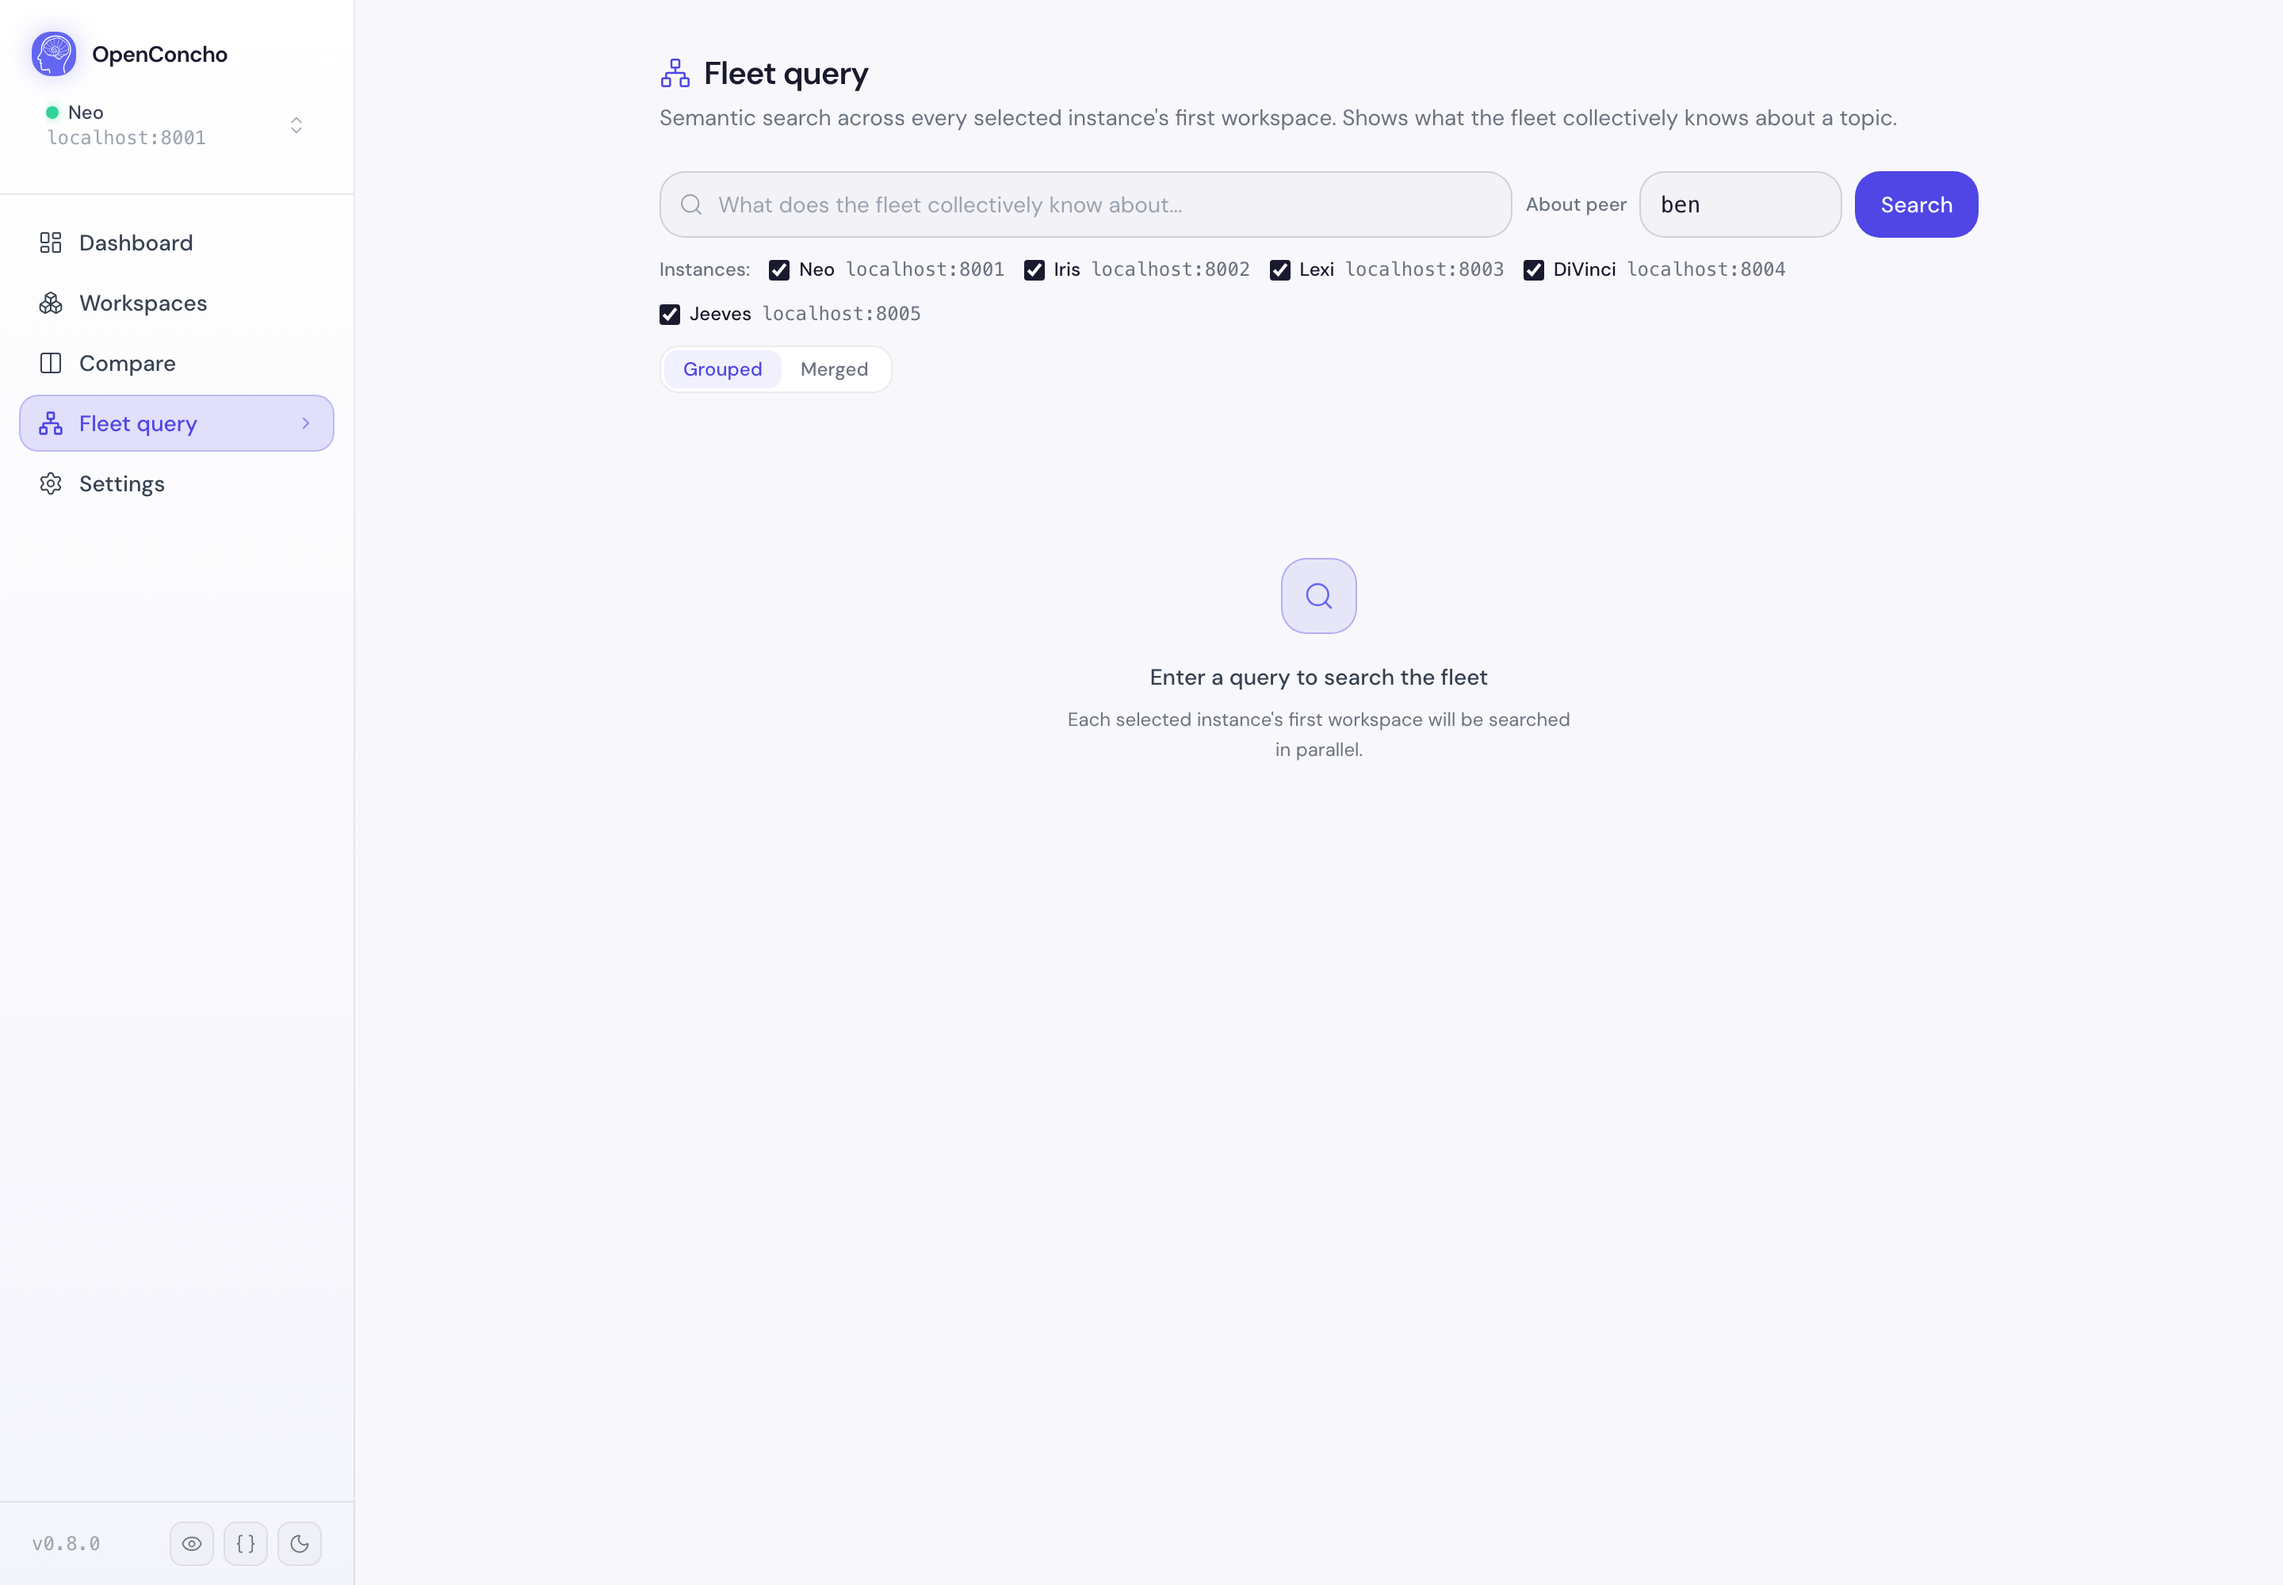
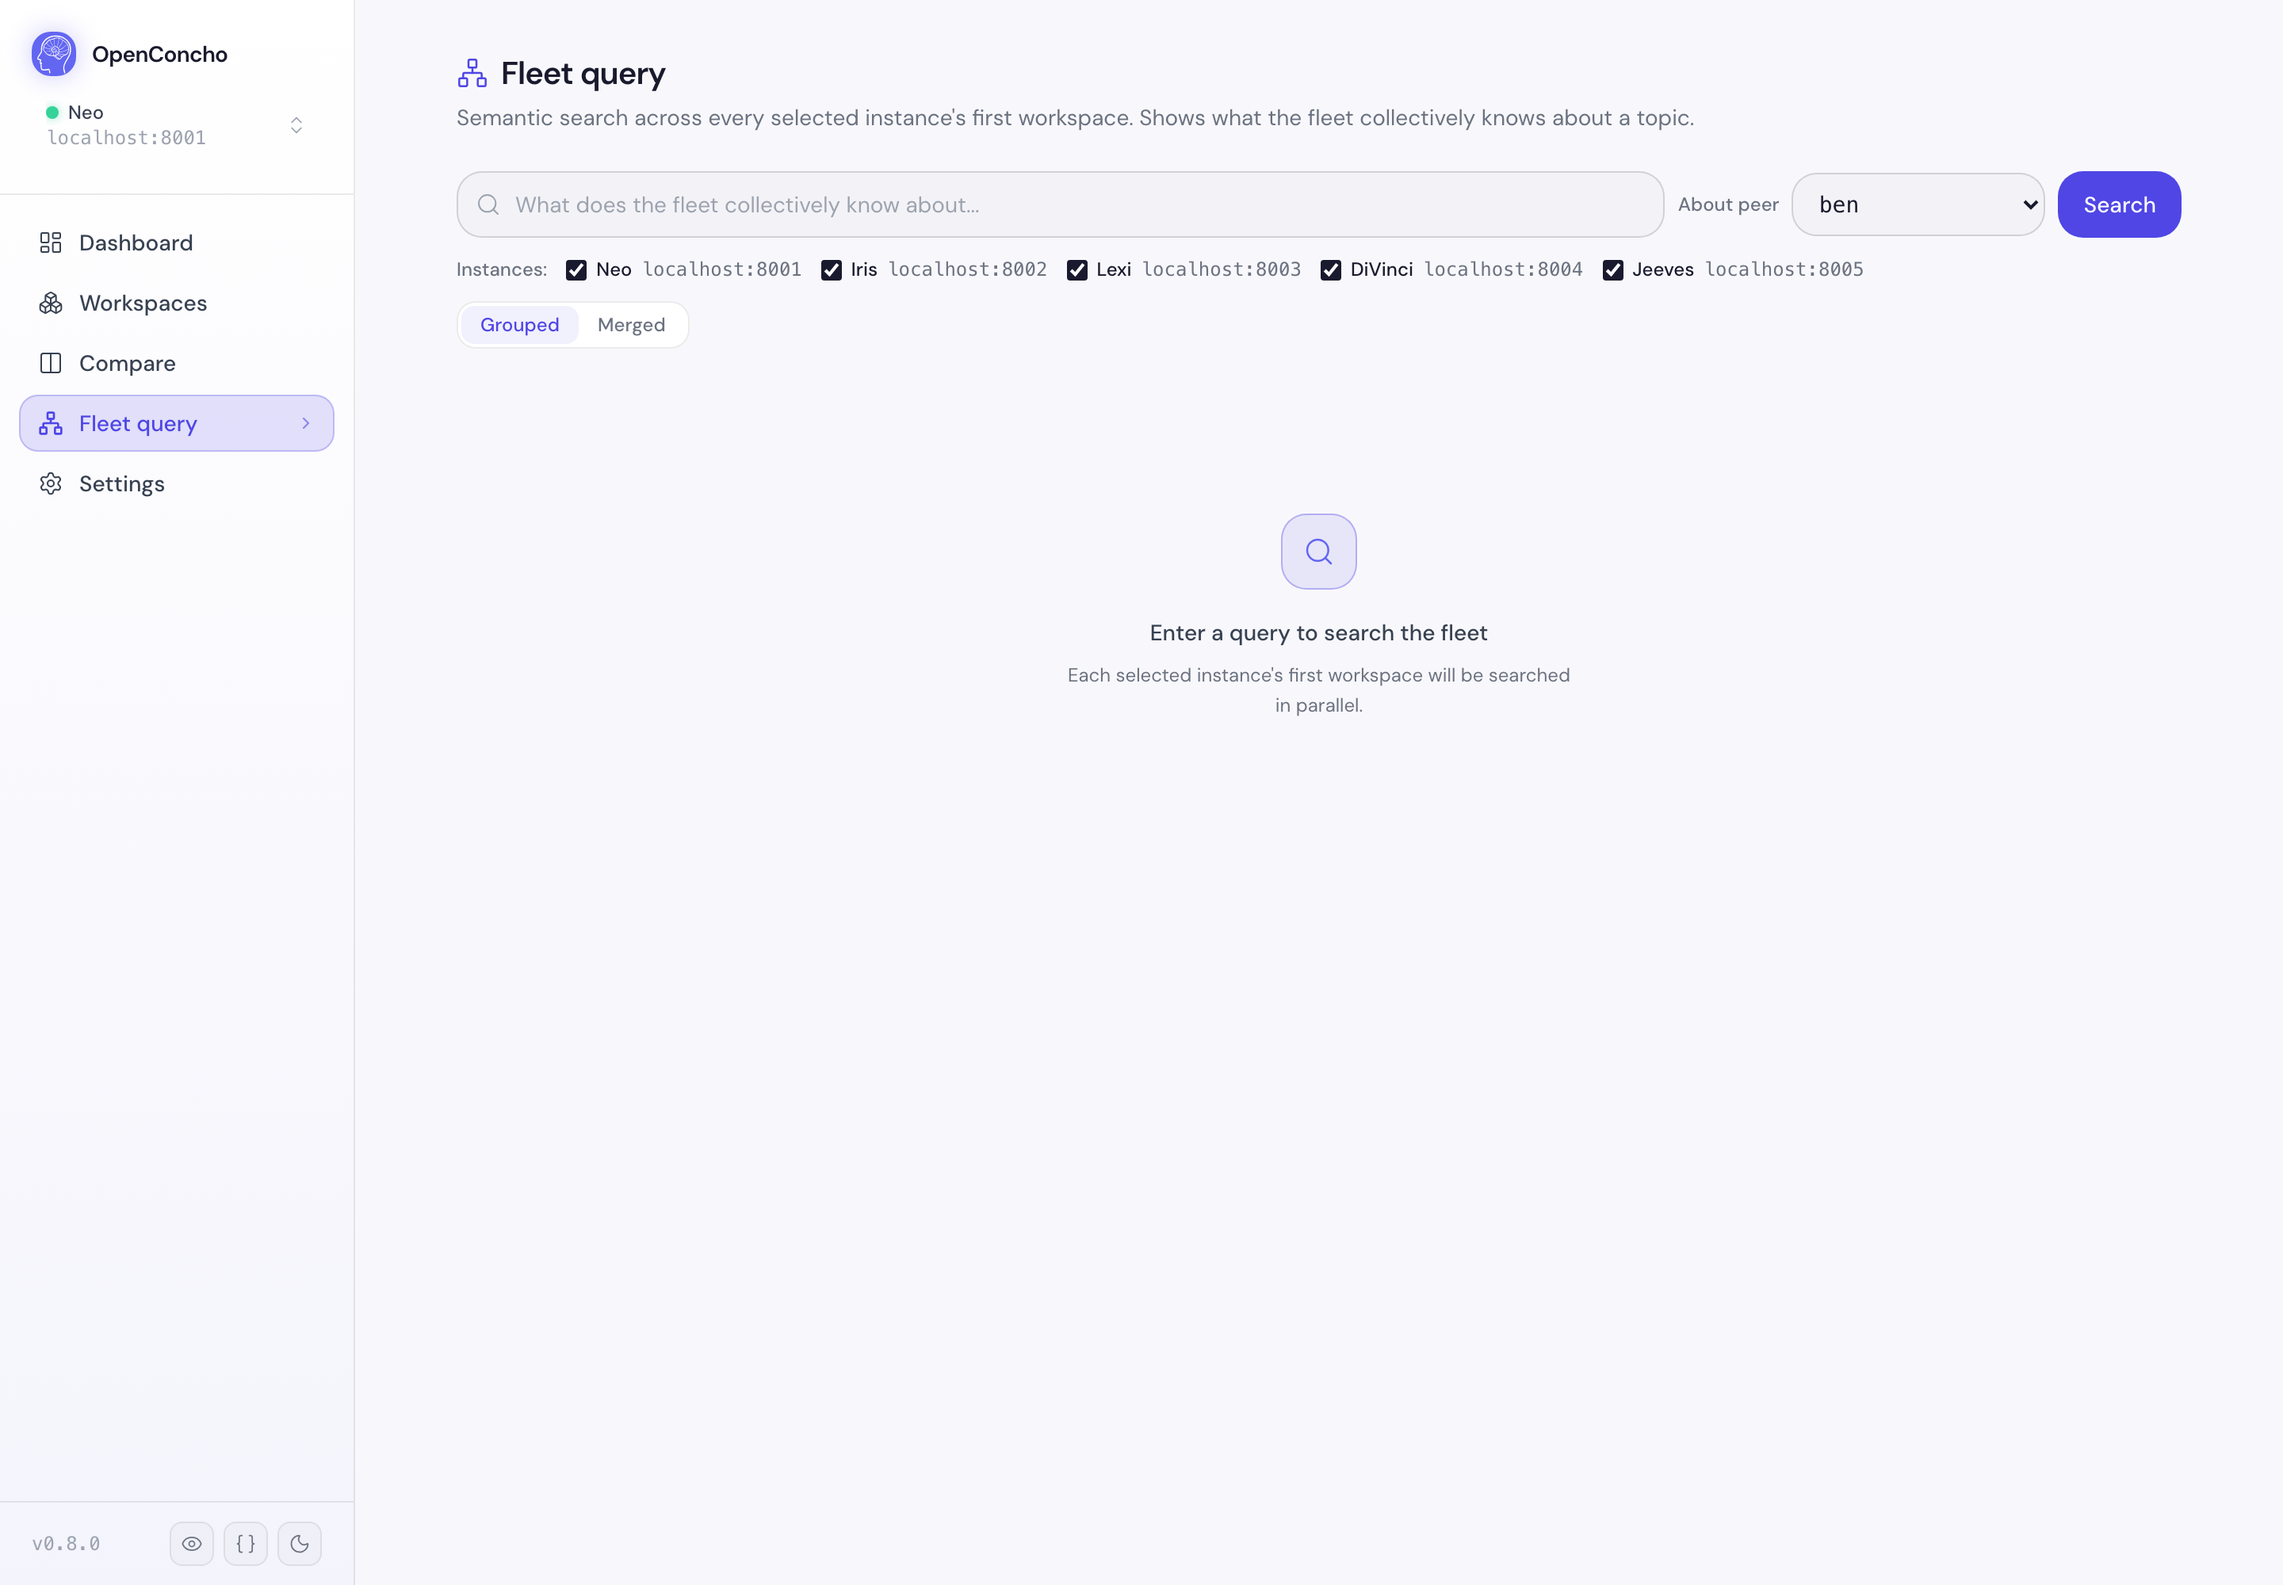
feat(web): fleet query — wider container + peer dropdown
Design pass on the cross-agent query view:
- Use page-container--wide so results breathe horizontally instead of
  hugging a 56rem column with a big right gap
- Replace the free-text "About peer" input with a <select> populated
  from the union of peers across selected instances; falls back to
  whatever was in the URL if it isn't in the discovered set
- Each instance's own "self" peer is excluded from its peer list (you
  can't be the observed of your own observation)
- Default "ben" pinned to the top of the dropdown when present

Adds scopedPeersQueryOptions to fleetQueries.ts so the new fan-out
slots cleanly into the existing useQueries pattern.

Changed region(s): [[0.2188, 0.093, 0.9688, 0.217], [0.2188, 0.031, 0.7812, 0.093], [0.5, 0.341, 0.6875, 0.496]]

diff --git a/packages/web/src/components/fleetQuery/FleetQueryView.tsx b/packages/web/src/components/fleetQuery/FleetQueryView.tsx
@@ -5,6 +5,8 @@ import { Eye, Layers, Network, Search } from "lucide-react";
 import { useMemo } from "react";
 import {
 	deriveObserverFromWorkspaceId,
+	type PeersListResponse,
+	scopedPeersQueryOptions,
 	scopedQueryConclusionsQueryOptions,
 	scopedWorkspacesQueryOptions,
 	type WorkspacesListResponse,
@@ -103,6 +105,37 @@ export function FleetQueryView() {
 		return map;
 	}, [selected, workspacesResults]);
 
+	// Step 1b: fan out peers/list per selected instance, then union the IDs so
+	// the "About peer" dropdown shows every peer the fleet collectively knows.
+	const peersResults = useQueries({
+		queries: selected.map((inst) => {
+			const wsId = workspaceByInstance.get(inst.id) ?? "";
+			return scopedPeersQueryOptions(inst, wsId);
+		}),
+	});
+
+	const availablePeers = useMemo<string[]>(() => {
+		const ids = new Set<string>();
+		selected.forEach((inst, idx) => {
+			const items = (peersResults[idx]?.data as PeersListResponse | undefined)?.items ?? [];
+			const observer = deriveObserverFromWorkspaceId(workspaceByInstance.get(inst.id) ?? "");
+			for (const p of items) {
+				// Skip each instance's own "self" peer — it can't be the observed.
+				if (p.id && p.id !== observer) ids.add(p.id);
+			}
+		});
+		// Stable order: alphabetical, with the default peer pinned to the top if present.
+		const sorted = [...ids].sort((a, b) => a.localeCompare(b));
+		const idx = sorted.indexOf(DEFAULT_PEER);
+		if (idx > 0) {
+			sorted.splice(idx, 1);
+			sorted.unshift(DEFAULT_PEER);
+		}
+		return sorted;
+	}, [selected, peersResults, workspaceByInstance]);
+
+	const peersLoading = peersResults.some((r) => r.isLoading);
+
 	// Step 2: run the semantic query against each instance's first workspace.
 	// Honcho's conclusions/query requires BOTH observer_id and observed_id —
 	// observer is the agent's "self" peer (derived from the workspace ID),
@@ -158,7 +191,7 @@ export function FleetQueryView() {
 
 	if (instances.length === 0) {
 		return (
-			<div className="page-container">
+			<div className="page-container page-container--wide">
 				<PageTitle>Fleet query</PageTitle>
 				<Body className="mt-2">
 					Configure at least one Honcho instance in Settings before querying the fleet.
@@ -168,7 +201,7 @@ export function FleetQueryView() {
 	}
 
 	return (
-		<div className="page-container">
+		<div className="page-container page-container--wide">
 			<motion.div initial={{ opacity: 0, y: -8 }} animate={{ opacity: 1, y: 0 }} className="mb-6">
 				<div className="flex items-center gap-2 mb-1">
 					<Network className="w-5 h-5" style={{ color: "var(--accent)" }} strokeWidth={1.5} />
@@ -215,15 +248,31 @@ export function FleetQueryView() {
 						>
 							About peer
 						</label>
-						<Input
+						<select
 							id="fleet-query-peer"
 							name="peer"
-							type="text"
+							key={peer}
 							defaultValue={peer}
-							placeholder={DEFAULT_PEER}
-							className="rounded-xl px-3 py-2.5 font-mono w-32"
+							disabled={availablePeers.length === 0}
+							className="rounded-xl px-3 py-2.5 text-sm font-mono outline-none transition-colors"
+							style={{
+								background: "var(--surface)",
+								color: "var(--text-1)",
+								border: "1px solid var(--border-2)",
+								minWidth: "10rem",
+							}}
 							aria-label="Peer name"
-						/>
+						>
+							{peer && !availablePeers.includes(peer) && <option value={peer}>{peer}</option>}
+							{availablePeers.length === 0 && (
+								<option value="">{peersLoading ? "Loading peers…" : "No peers discovered"}</option>
+							)}
+							{availablePeers.map((p) => (
+								<option key={p} value={p}>
+									{p}
+								</option>
+							))}
+						</select>
 					</div>
 					<Button type="submit" variant="primary" className="rounded-xl">
 						Search

diff --git a/packages/web/src/api/fleetQueries.ts b/packages/web/src/api/fleetQueries.ts
@@ -4,6 +4,7 @@ import { createScopedClient } from "@/api/scopedClient";
 import type { Instance } from "@/lib/config";
 
 type Workspace = components["schemas"]["Workspace"];
+type Peer = components["schemas"]["Peer"];
 type Conclusion = components["schemas"]["Conclusion"];
 
 function err(e: unknown): never {
@@ -14,9 +15,19 @@ function err(e: unknown): never {
 const FK = {
 	workspaces: (instId: string, page: number, size: number) =>
 		["fleet", instId, "workspaces", page, size] as const,
+	peers: (instId: string, wsId: string, page: number, size: number) =>
+		["fleet", instId, "peers", wsId, page, size] as const,
 	conclusionsQuery: (instId: string, wsId: string, q: string, filters: Record<string, unknown>) =>
 		["fleet", instId, "conclusions-query", wsId, q, filters] as const,
 };
+
+export interface PeersListResponse {
+	items?: Peer[];
+	total?: number;
+	page?: number;
+	size?: number;
+	pages?: number;
+}
 
 export interface WorkspacesListResponse {
 	items?: Workspace[];
@@ -41,6 +52,26 @@ export function scopedWorkspacesQueryOptions(
 			});
 			return (data as WorkspacesListResponse) ?? err(error);
 		},
+	};
+}
+
+export function scopedPeersQueryOptions(
+	instance: Instance,
+	workspaceId: string,
+	page = 1,
+	pageSize = 100,
+): UseQueryOptions<PeersListResponse> {
+	return {
+		queryKey: [...FK.peers(instance.id, workspaceId, page, pageSize)],
+		queryFn: async () => {
+			const client = createScopedClient(instance);
+			const { data, error } = await client.POST("/v3/workspaces/{workspace_id}/peers/list", {
+				params: { path: { workspace_id: workspaceId }, query: { page, page_size: pageSize } },
+				body: {},
+			});
+			return (data as PeersListResponse) ?? err(error);
+		},
+		enabled: Boolean(workspaceId),
 	};
 }
 
